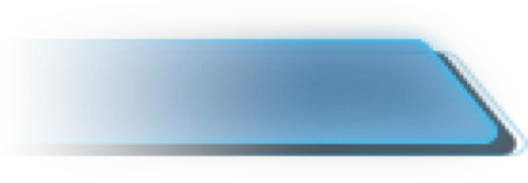
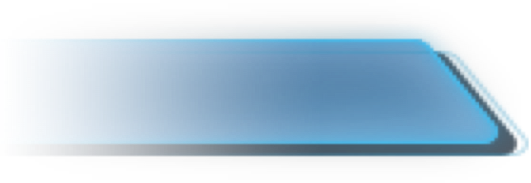
切换背景图片，修改背景色

Changed region(s): [[0.8182, 0.2732, 1.0, 0.847], [0.7879, 0.2186, 0.8182, 0.2732]]

diff --git a/src/views/Cockpit/Index/RightColumn.vue b/src/views/Cockpit/Index/RightColumn.vue
@@ -107,50 +107,50 @@ const percent: any = [
     label: '车辆逆行',
     value: '28',
     ratio: '28%',
-    linear: 'linear-gradient(180deg, #00F1FF 0%, #22AAFF 0%, rgba(0,132,231,0.23) 100%);',
-    color: 'rgba(25, 151, 230, 0.2500)'
+    linear: 'linear-gradient(180deg, #20A6FA 0%, rgba(0, 132, 231, 0.3) 100%);',
+    color: 'rgba(25, 151, 230, 0.2)'
   },
   {
     label: '行人闯入',
     value: '12',
     ratio: '12%',
-    linear: 'linear-gradient(180deg, #00F1FF 0%, rgba(0,222,255,0.3) 100%);',
-    color: 'rgba(0, 222, 255, 0.2000)'
+    linear: 'linear-gradient(180deg, #9AC3FF  0%, rgba(62, 78, 134, 0.6) 100%);',
+    color: 'rgba(154, 195, 255, 0.2)'
   },
   {
     label: '占用应急车道',
     value: '5',
     ratio: '5%',
-    linear: 'linear-gradient(180deg, rgba(255,253,0,0.69) 0%, rgba(255,252,192,0.3) 100%);',
-    color: 'rgba(255, 176, 0, 0.2000)'
+    linear: 'linear-gradient(180deg, #00F1FF 0%, rgba(0, 222, 255, 0.3) 100%);',
+    color: 'rgba(0, 222, 255, 0.2)'
   },
   {
     label: '道路堵塞',
     value: '9',
     ratio: '9%',
-    linear: 'linear-gradient(180deg, #00F1FF 0%, rgba(0,222,255,0.3) 100%);',
-    color: 'rgba(0, 222, 255, 0.2000)'
+    linear: 'linear-gradient(180deg, #FF7F50 0%, rgba(255, 127, 80, 0.3) 100%);',
+    color: 'rgba(255, 127, 80, 0.2)'
   },
   {
     label: '非法停车',
     value: '2',
     ratio: '2%',
-    linear: 'linear-gradient(180deg, #00F1FF 0%, rgba(0,222,255,0.3) 100%);',
-    color: 'rgba(0, 222, 255, 0.2000)'
+    linear: 'linear-gradient(180deg, #DDDB00 0%, rgba(166, 157, 0, 0.3) 100%);',
+    color: 'rgba(255, 253, 0, 0.2)'
   },
   {
     label: '交通事故',
     value: '18',
     ratio: '18%',
-    linear: 'linear-gradient(180deg, #00F1FF 0%, rgba(0,222,255,0.3) 100%);',
-    color: 'rgba(0, 222, 255, 0.2000)'
+    linear: 'linear-gradient(180deg, #9AC3FF  0%, rgba(62, 78, 134, 0.6) 100%);',
+    color: 'rgba(154, 195, 255, 0.2)'
   },
   {
     label: '交通事件总数',
     value: '50',
     ratio: '72',
-    linear: 'linear-gradient(180deg, #00F1FF 0%, #22AAFF 0%, rgba(0,132,231,0.23) 100%);',
-    color: 'rgba(25, 151, 230, 0.2500)'
+    linear: 'linear-gradient(180deg, #20A6FA 0%, rgba(0, 132, 231, 0.3) 100%);',
+    color: 'rgba(25, 151, 230, 0.2)'
   }
 ]
 
@@ -362,7 +362,6 @@ const chartData2: EChartsOption = {
         position: absolute;
         min-width: 20px;
         min-height: 20px;
-        background-color: blue;
         text-align: center;
         .value {
           color: #ffffff;
